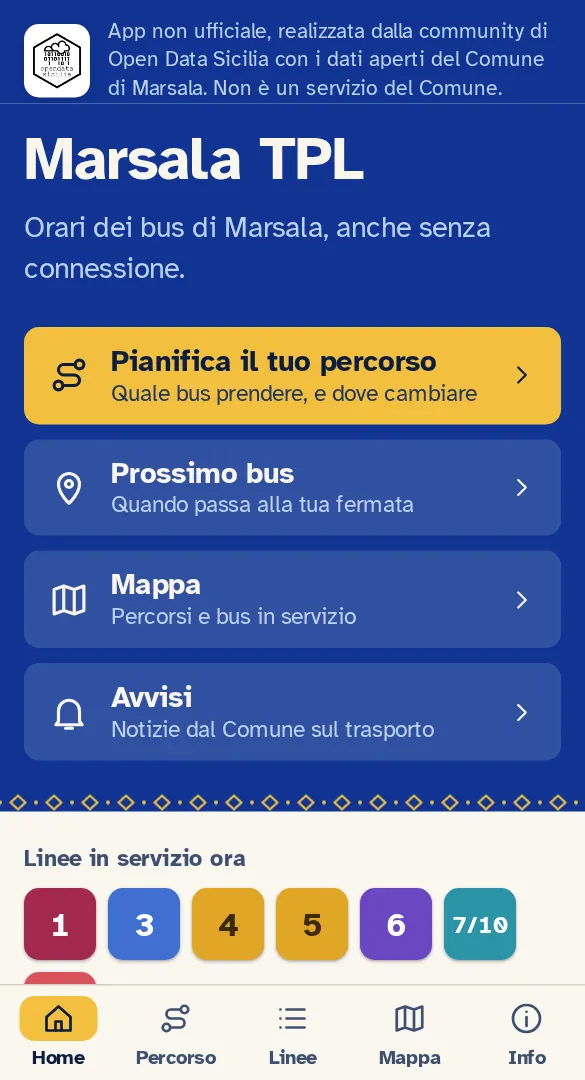
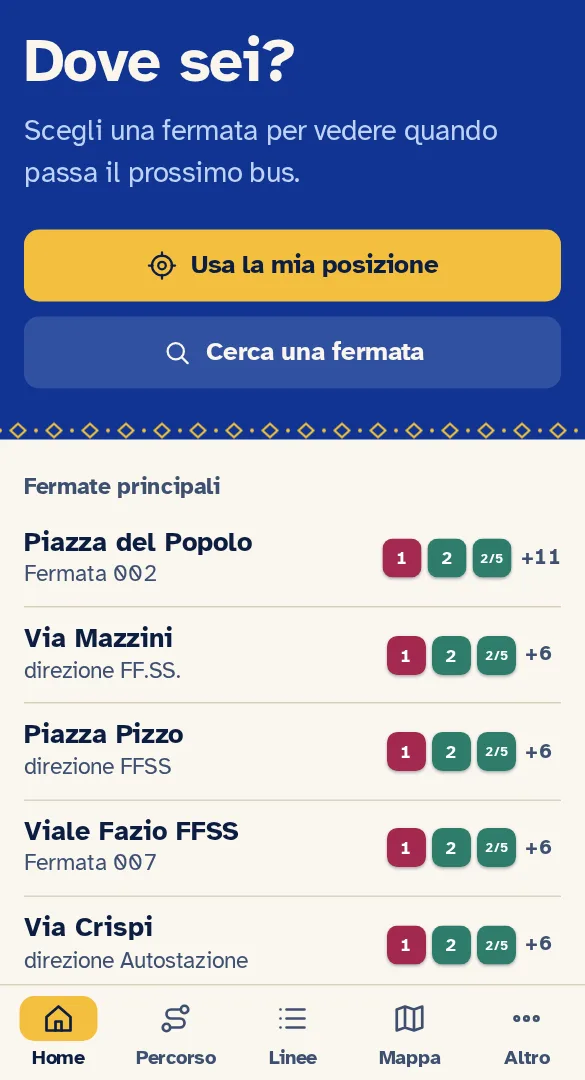
Desktop: colonna 680px; guida e screenshot aggiornati alla nuova barra; stato piano

diff --git a/js/i18n.js b/js/i18n.js
@@ -95,12 +95,12 @@ const IT = {
   // [id, icona, titolo, introduzione, passi, consiglio, [[foto, descrizione]...]]
   guideDoc: [
     ['start', 'home', 'Come è fatta l’app', 'In basso c’è sempre una barra con i pulsanti per spostarti. Eccoli da sinistra a destra:', [
-      '<b>Home</b>: la pagina di partenza, con le scorciatoie e le tue fermate salvate.',
+      '<b>Home</b>: la pagina di partenza. Mostra subito la tua fermata preferita; se non ne hai ancora una, ti aiuta a trovarla.',
       '<b>Percorso</b>: ti dice quale bus prendere per andare da un posto a un altro.',
       '<b>Linee</b>: l’elenco di tutte le linee, con fermate e orari.',
       '<b>Mappa</b>: la mappa con i percorsi e i bus che stanno circolando.',
       '<b>Altro</b>: gli avvisi del Comune, questa guida, le informazioni (lingua, aspetto chiaro o scuro, fonti dei dati) e la privacy.',
-    ], 'Nella Home trovi anche il pulsante «Prossimo bus» e gli «Avvisi» del Comune sul trasporto.', [['home', 'La pagina Home con i pulsanti principali e la barra in basso']]],
+    ], 'Tocca la stella su una fermata per salvarla: da quel momento la ritrovi subito aprendo l’app.', [['home', 'La pagina Home con i pulsanti principali e la barra in basso']]],
     ['stop', 'pin', 'Come cercare una fermata', 'Ci sono tre modi, scegli quello che ti viene più comodo.', [
       '<b>Per nome.</b> Tocca «Cerca una fermata» (nella Home o nella pagina «Prossimo bus») e scrivi qualche lettera, per esempio «crispi» o «piazza rep». Non servono le maiuscole né gli accenti. Tocca il risultato giusto per aprire la fermata.',
       '<b>Dove ti trovi.</b> Tocca «Usa la mia posizione» e consenti al telefono di usarla: l’app ti mostra le fermate più vicine, con la distanza. La tua posizione resta nel telefono e non viene inviata a nessuno.',

diff --git a/sw.js b/sw.js
@@ -2,7 +2,7 @@
 // - Codice (html/js/css): prima la rete (con timeout), poi la cache: online si ha sempre una versione coerente.
 // - Dati, font, icone: dalla cache, aggiornati in background.
 // - MapLibre dalla CDN: cache al primo uso. Feed RT e tile della mappa non vengono mai messi in cache da qui.
-const VERSION = 'v42';
+const VERSION = 'v44';
 const CACHE = `marsala-tpl-${VERSION}`;
 const PRECACHE = [
   './', 'index.html', 'manifest.webmanifest', 'css/app.css',

diff --git a/css/app.css b/css/app.css
@@ -312,6 +312,8 @@ button { font: inherit; color: inherit; }
   .next-when .num { font-size: 96px; }
   .stopname h1 { font-size: 30px; }
 }
+/* Schermi larghi: colonna un po' più larga (tab bar e gutter seguono `--col`); la mappa resta a tutto schermo. */
+@media (min-width: 900px) { :root { --col: 680px; } .page-head h1 { font-size: 36px; } }
 
 /* ---------- home ---------- */
 .howto { display: grid; gap: 14px; }

diff --git a/docs/PIANO-GRAFICA.md b/docs/PIANO-GRAFICA.md
@@ -1,6 +1,6 @@
 # Piano grafica: uniformità, gradevolezza, attrattività
 
-Stato: proposta, nessuna modifica al codice. Data: 2026-11-14.
+Stato (2026-11-14): fasi 1, 2, 3, 4, 5, 6, 7, 8 eseguite; 9 eseguita in forma ridotta (colonna 680px da 900px, nessun layout a due colonne); 10 in parte (DESIGN.md, guida e screenshot home/linee/cerca aggiornati; restano gli screenshot fermata, percorso, mappa e il badge avvisi). Commit: fff7154, 393b4b4, 20166b8, a308749, bc1bec0 e successivi.
 Metodo: critique + audit con la skill `impeccable` (modalità **Operate**), letti `PRODUCT.md`, `DESIGN.md`, `.impeccable/surfaces/index-html.md`, `css/app.css` (462 righe); screenshot a 390×844 di home, vicino, linee, percorso, mappa, avvisi, info (+ linee in scuro); detector `impeccable detect`.
 ⚠ Esecuzione singolo contesto (A e B non isolati: nessun sub-agente richiesto dall'utente). Non verificati: schermata fermata con partenze, linea aperta, tema scuro completo, desktop ≥700px.
 
